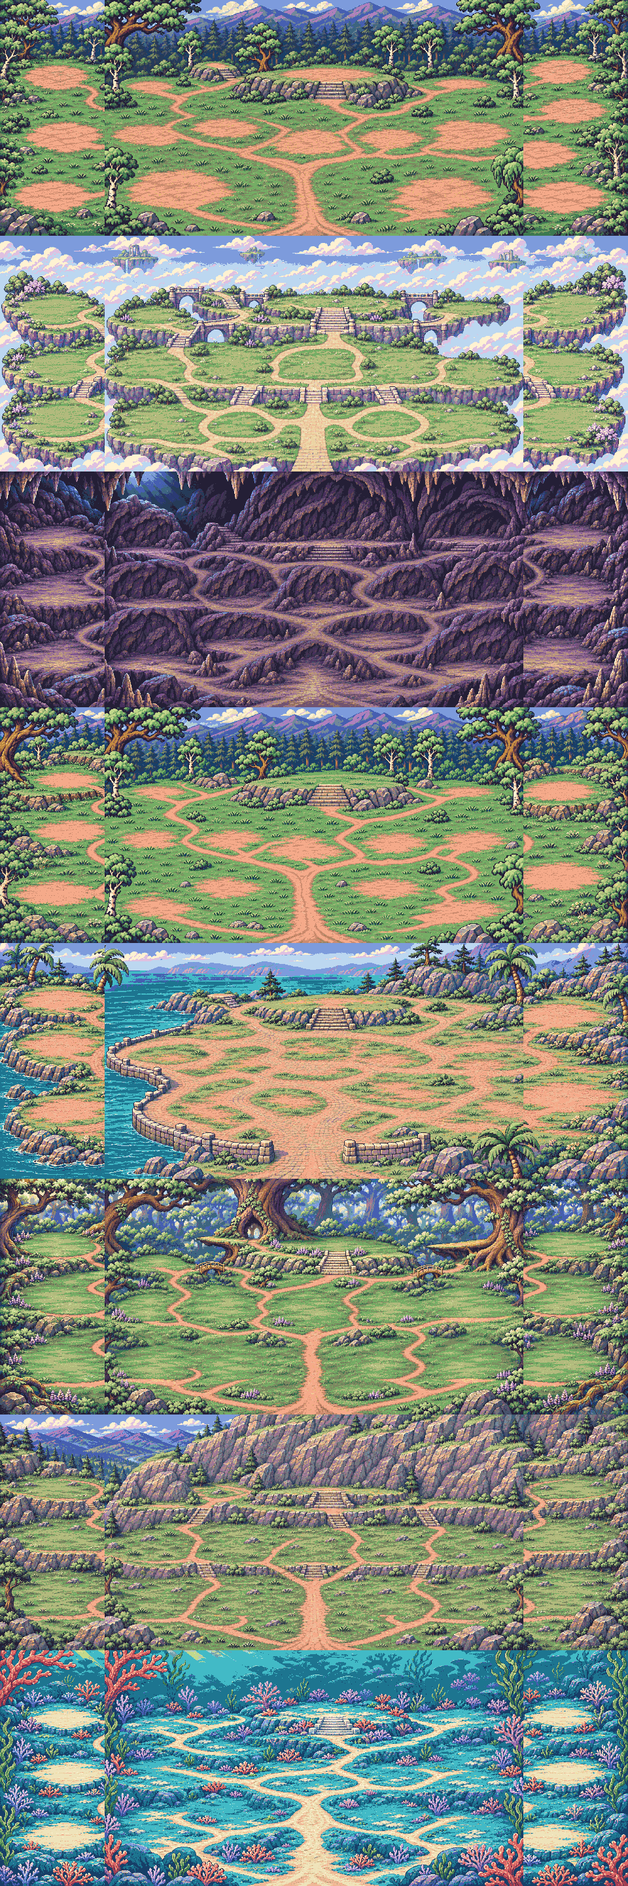
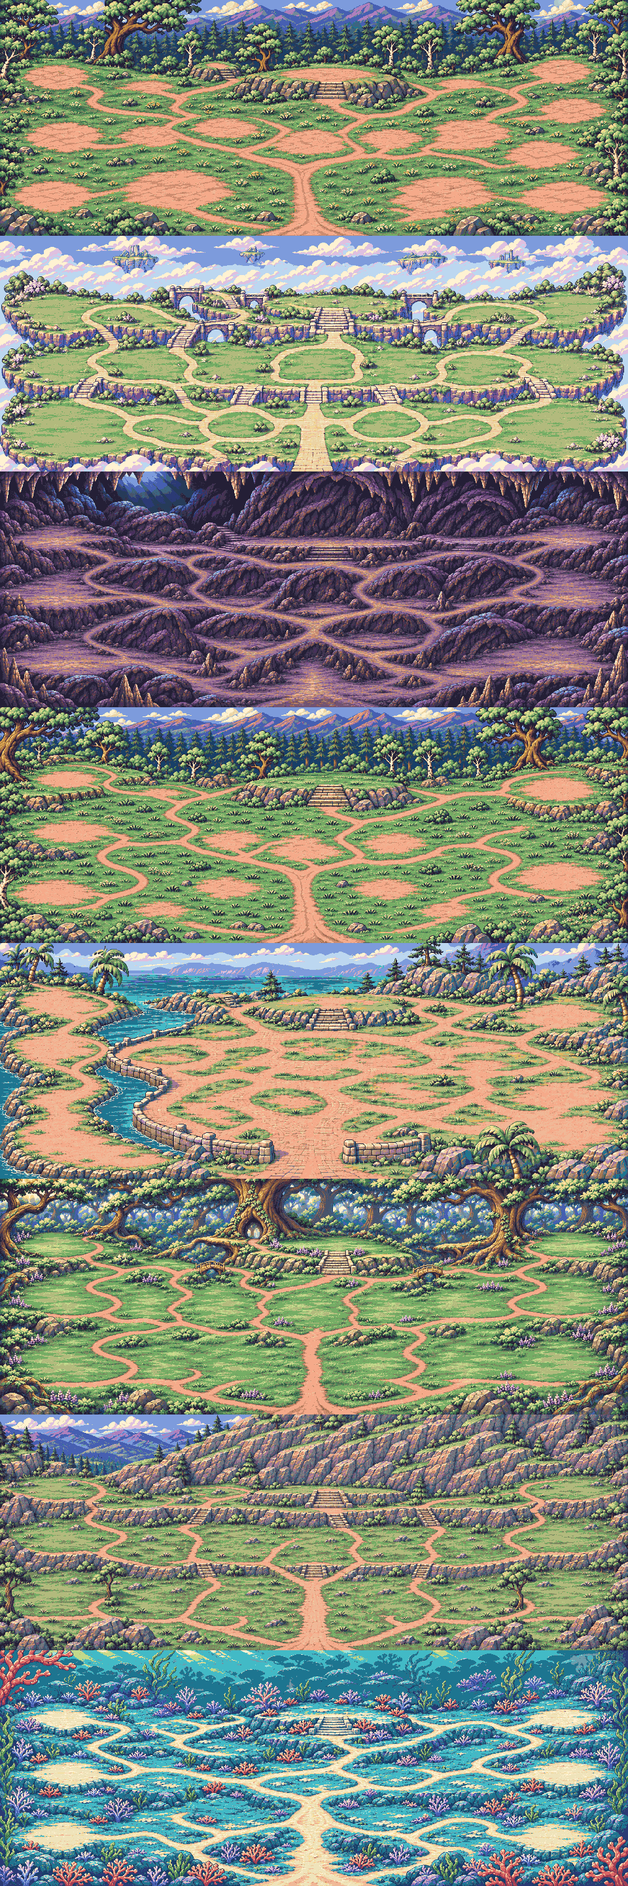
v41: redrawn city scenes, balance pass (starting artifacts for every hero, weak abilities raised, copies made distinct, daily gold trimmed, Battaglia Might)
Claude-Session: https://claude.ai/code/session_019G5bQC3KGAYpQSZdre1Ejx

diff --git a/js/01-data.js b/js/01-data.js
@@ -144,42 +144,42 @@ const HEROES=[
   {id:'bear',name:'Bear',fac:'centaurs',type:'Might',st:[2,2,1,1],ab:'Great Bear',ad:'Lions +2 attack and +2 defense.',sk:['shieldcraft'],sp:[],fx:{unitAtk:{lion:2},unitDef:{lion:2}}},
   {id:'perry',name:'Perry',fac:'rangers',type:'Might',st:[2,2,1,1],ab:'Rootkeeper',ad:'Oak Wardens +1 growth per week. Rootbound gives +3 defense instead of +2.',sk:['shieldcraft'],sp:[],fx:{growth:{oak:1},rootbound:3}},
   {id:'dorothy',name:'Dorothy',fac:'rangers',type:'Magic',st:[0,1,2,2],ab:'Green Mender',ad:'Mend heals 50% more.',sk:[],sp:['mend'],fx:{mendPct:1.5}},
-  {id:'oliver',name:'Oliver',fac:'rangers',type:'Might',st:[2,1,1,1],ab:'Trailblazer',ad:'Heath and bog cost 20% less movement.',sk:['forcedmarch'],sp:[],fx:{terrainCut:0.8}},
+  {id:'oliver',name:'Oliver',fac:'rangers',type:'Might',st:[2,1,1,1],ab:'Trailblazer',ad:'Heath and bog cost 30% less movement, and +5% movement.',sk:['forcedmarch'],sp:[],fx:{terrainCut:0.7,mpPct:5}},
   {id:'engelman',name:'Engelman',fac:'wizards',type:'Magic',st:[0,1,3,2],ab:'Arcanist',ad:'Spell Echo also works on the second spell each battle.',sk:['arcane'],sp:['ember'],fx:{echo:2}},
   {id:'tempest',name:'Tempest',fac:'wizards',type:'Magic',st:[0,1,2,3],ab:'Stormborn',ad:'Chain Spark jumps to one extra enemy.',sk:['deepres'],sp:['chain'],fx:{chainExtra:1}},
   {id:'parker',name:'Parker',fac:'necro',type:'Might',st:[2,2,1,1],ab:'Restless Dead',ad:'Zombies and Werewolves +2 speed.',sk:['battleplan'],sp:[],fx:{unitSpd:{zombie:2,werewolf:2}}},
-  {id:'shadow',name:'Shadow',fac:'necro',type:'Magic',st:[0,1,2,2],ab:'Gravecaller',ad:'Grave Harvest raises 15% instead of 10%.',sk:[],sp:['raise'],fx:{harvest:0.15}},
-  {id:'grimes',name:'Grimes',fac:'dwarves',type:'Might',st:[2,2,1,1],ab:'Stone Warden',ad:'Gem Golems +3 defense.',sk:['shieldcraft'],sp:[],fx:{unitDef:{golem:3}}},
+  {id:'shadow',name:'Shadow',fac:'necro',type:'Magic',st:[0,1,2,2],ab:'Gravecaller',ad:'Grave Harvest raises 20% instead of 10%.',sk:[],sp:['raise'],fx:{harvest:0.20}},
+  {id:'grimes',name:'Grimes',fac:'dwarves',type:'Might',st:[2,2,1,1],ab:'Stone Warden',ad:'Gem Golems +3 defense and +1 speed.',sk:['shieldcraft'],sp:[],fx:{unitDef:{golem:3},unitSpd:{golem:1}}},
   {id:'boopis',name:'Boopis',fac:'centaurs',type:'Magic',st:[1,1,2,1],ab:'Pounce',ad:'War Rabbits +4 growth per week and +1 speed.',sk:['fortune'],sp:['ember'],fx:{growth:{rabbit:4},unitSpd:{rabbit:1}}},
   {id:'rocky',name:'Rocky',fac:'merfolk',type:'Might',st:[3,1,1,1],ab:'Wave Rider',ad:'Turtle Knights +2 attack and +2 speed.',sk:['forcedmarch'],sp:[],fx:{unitAtk:{turtle:2},unitSpd:{turtle:2}}},
   {id:'monkey',name:'Monkey',fac:'centaurs',type:'Might',st:[2,2,1,1],ab:'Troublemaker',ad:'Your first stack to act each battle gets an extra turn.',sk:['bladework'],sp:[],fx:{extraFirst:true}},
   {id:'binx',name:'Binx',fac:'centaurs',type:'Magic',st:[1,1,2,2],ab:'Night Prowler',ad:'+2 vision, and you see exact enemy army sizes.',sk:['farsight'],sp:['ember'],fx:{vision:2,exact:true}},
   {id:'omalley',name:"O'Malley",fac:'pirates',type:'Might',st:[2,2,1,1],ab:'Scourge of the Coast',ad:'Plunder pays 50% more.',sk:['seamanship'],sp:[],fx:{plunder:1.5}},
   {id:'vargas',name:'Vargas',fac:'pirates',type:'Might',st:[3,1,1,1],ab:'Powder Master',ad:'Cannon Crews and Gunners +25% damage and +2 shots.',sk:['steadyaim'],sp:[],fx:{unitDmgPct:{cannon:1.25,gunner:1.25},unitShots:{cannon:2,gunner:2}}},
-  {id:'sheila',name:'Sheila',fac:'pirates',type:'Magic',st:[0,1,2,2],ab:'Weatherwise',ad:'Squall costs half.',sk:[],sp:['squall'],fx:{squallHalf:true}},
+  {id:'sheila',name:'Sheila',fac:'pirates',type:'Magic',st:[0,1,2,2],ab:'Weatherwise',ad:'Squall costs half and hits 30% harder.',sk:[],sp:['squall'],fx:{squallHalf:true,squallPct:1.3}},
   {id:'davis',name:'Davis',retired:true,fac:'elves',type:'Might',st:[2,1,1,1],ab:'Master Archer',ad:'Longbow Rangers +1 damage and +4 shots.',sk:['steadyaim'],sp:[],fx:{unitDmgFlat:{longbow:1},unitShots:{longbow:4}}},
   {id:'love',name:'Love',fac:'elves',type:'Magic',st:[0,1,2,2],ab:'Heartbloom',ad:'Healing spells also give the target +1 morale for the battle.',sk:[],sp:['mend'],fx:{healMorale:1}},
-  {id:'ivan',name:'Ivan',fac:'dwarves',type:'Might',st:[2,2,1,1],ab:'Master Smith',ad:'The Great Forge costs 25% less ore.',sk:['shieldcraft'],sp:[],fx:{forgeCut:0.75}},
+  {id:'ivan',name:'Ivan',fac:'dwarves',type:'Might',st:[2,2,1,1],ab:'Master Smith',ad:'The Great Forge costs half the ore, and forged troops get +1 more attack.',sk:['shieldcraft'],sp:[],fx:{forgeCut:0.5,forgePlus:1}},
   {id:'rago',name:'Rago',fac:'necro',type:'Magic',st:[1,1,2,2],ab:'Hex Mistress',ad:'Vampires +2 attack and +2 speed.',sk:['battleplan'],sp:['ember'],fx:{unitAtk:{vampire:2},unitSpd:{vampire:2}}},
   {id:'dupengeiser',name:'Dupengeiser',fac:'dwarves',type:'Magic',st:[1,1,2,2],ab:'Steamcaller',ad:'Once per battle, raise a scalding geyser beside an enemy.',sk:['warding'],sp:['geyser'],fx:{}},
   {id:'rimmer',name:'Rimmer',fac:'wizards',type:'Magic',st:[1,1,2,2],ab:'Storm Keeper',ad:'Storm Elementals +2 attack and +1 speed.',sk:['meditation'],sp:['ember'],fx:{unitAtk:{stormel:2},unitSpd:{stormel:1}}},
   {id:'sookie',name:'Sookie',fac:'wizards',type:'Magic',st:[0,1,2,3],ab:'Owl Mother',ad:'Owl Familiars +4 growth per week and +1 speed.',sk:['meditation'],sp:['ember'],fx:{growth:{owl:4},unitSpd:{owl:1}}},
-  {id:'schmickle',name:'Schmickle',tav:true,fac:'centaurs',type:'Might',st:[2,2,1,1],ab:'Light Fingers',ad:'Brings in +250 gold every day.',sk:['shieldcraft'],sp:[],fx:{goldDay:250}},
+  {id:'schmickle',name:'Schmickle',tav:true,fac:'centaurs',type:'Might',st:[2,2,1,1],ab:'Light Fingers',ad:'Brings in +200 gold every day.',sk:['shieldcraft'],sp:[],fx:{goldDay:200}},
   {id:'elvis',name:'Eelvis',fac:'merfolk',type:'Magic',st:[1,1,2,2],ab:'Siren Voice',ad:'Siren charms last 1 turn longer, and your whole army has +1 morale.',sk:['command'],sp:['ember'],fx:{charmExtra:1,morale:1}},
 ];
 /* rogues: wanderers of no banner, found only in taverns and freed from prisons on the map */
 HEROES.push(
-  {id:'boone',name:'Boone',rogue:true,fac:'elves',type:'Might',st:[2,1,1,1],ab:'Quickdraw',ad:'Your first stack to act each battle gets an extra turn.',sk:['steadyaim'],sp:[],fx:{extraFirst:true}},
+  {id:'boone',name:'Boone',rogue:true,fac:'elves',type:'Might',st:[2,1,1,1],ab:'Quickdraw',ad:'Your shooters deal 15% more damage.',sk:['steadyaim'],sp:[],fx:{rangedPct:0.15}},
   {id:'holmes',name:'Holmes',rogue:true,fac:'necro',type:'Magic',st:[0,1,2,2],ab:'Sharp Eyes',ad:'+2 vision, and you see exact enemy army sizes.',sk:['farsight'],sp:['ember'],fx:{vision:2,exact:true}},
   {id:'tinker',name:'Tinker',rogue:true,fac:'dwarves',type:'Might',st:[2,1,1,2],ab:'Wayfinder',ad:'+15% movement every day.',sk:['forcedmarch'],sp:[],fx:{mpPct:15}},
 );
 /* placeholder heroes fill every faction to four; rename them and give them art later */
 HEROES.push(
   {id:'necro4',name:'William IV',fac:'necro',type:'Might',st:[2,2,1,1],ab:'Bone Collector',ad:'Skeletons +3 growth per week.',sk:[],sp:[],fx:{growth:{skeleton:3}}},
-  {id:'mer2',name:'Griffiths',fac:'merfolk',type:'Might',st:[2,2,1,1],ab:'Crab Warden',ad:'Giant Crabs +3 defense.',sk:[],sp:[],fx:{unitDef:{crab:3}}},
+  {id:'mer2',name:'Griffiths',fac:'merfolk',type:'Might',st:[2,2,1,1],ab:'Crab Warden',ad:'Giant Crabs +3 defense and +1 speed.',sk:[],sp:[],fx:{unitDef:{crab:3},unitSpd:{crab:1}}},
 );
 HEROES.push(
-  {id:'battaglia',name:'Battaglia',fac:'rangers',type:'Magic',st:[0,1,3,2],ab:'Champion of the Vale',ad:'Antler Knights +2 attack and +2 defense.',sk:[],sp:[],fx:{unitAtk:{antler:2},unitDef:{antler:2}}},
+  {id:'battaglia',name:'Battaglia',fac:'rangers',type:'Might',st:[2,2,1,1],ab:'Champion of the Vale',ad:'Antler Knights +2 attack and +2 defense.',sk:[],sp:[],fx:{unitAtk:{antler:2},unitDef:{antler:2}}},
   {id:'lawrence',name:'Lawrence',fac:'pirates',type:'Magic',st:[0,1,2,2],ab:"Ship's Surgeon",ad:'Mend heals 40% more, and Deckhands +2 growth per week.',sk:[],sp:['mend'],fx:{mendPct:1.4,growth:{deckhand:2}}},
   {id:'michael',name:'Michael',fac:'elves',type:'Might',st:[2,2,1,1],ab:'Glade Guard',ad:'Grove Wardens +2 attack and +2 defense.',sk:[],sp:[],fx:{unitAtk:{dryad:2},unitDef:{dryad:2}}},
   {id:'livingston',name:'Livingston',fac:'elves',type:'Magic',st:[0,1,2,2],ab:'Rootweaver',ad:'Entangle lasts 1 round longer.',sk:[],sp:['entangle'],fx:{entangleExtra:1}},
@@ -187,11 +187,11 @@ HEROES.push(
   /* v39: each banner shows six heroes (pickers, rivals' first heroes); one more per banner has tav:true and is only met in the tavern ("on the road"). Rogues have no banner. */
   {id:'alderhide',rogue:true,name:'Alderhide',fac:'centaurs',type:'Might',st:[2,2,1,1],ab:'Moose Guardian',ad:'Boars +1 attack and +2 defense.',sk:['shieldcraft'],sp:[],fx:{unitAtk:{boar:1},unitDef:{boar:2}}},
   {id:'briar',rogue:true,name:'Briar',fac:'centaurs',type:'Might',st:[2,1,1,1],ab:'Fox Scout',ad:'+2 vision and +10% movement.',sk:['farsight'],sp:[],fx:{vision:2,mpPct:10}},
-  {id:'mossback',rogue:true,name:'Mossback',fac:'centaurs',type:'Magic',st:[0,2,2,2],ab:'Tortoise Herbalist',ad:'Mend heals 50% more.',sk:['meditation'],sp:['mend'],fx:{mendPct:1.5}},
+  {id:'mossback',rogue:true,name:'Mossback',fac:'centaurs',type:'Magic',st:[0,2,2,2],ab:'Tortoise Herbalist',ad:'Your whole army +1 defense.',sk:['meditation'],sp:['mend'],fx:{armyDef:1}},
   {id:'ilyra',name:'Ilyra',fac:'elves',type:'Magic',st:[0,1,2,2],ab:'Moon Sentinel',ad:'Sprites +3 growth per week and +1 speed.',sk:['arcane'],sp:['entangle'],fx:{growth:{sprite:3},unitSpd:{sprite:1}}},
   {id:'tavian',tav:true,name:'Tavian',fac:'elves',type:'Might',st:[2,1,1,1],ab:'Veteran Duelist',ad:'Elven Riders +2 attack and +1 speed.',sk:['bladework'],sp:[],fx:{unitAtk:{rider:2},unitSpd:{rider:1}}},
   {id:'yselle',name:'Yselle',fac:'elves',type:'Magic',st:[0,1,2,2],ab:'Grove Elder',ad:'Grove Wardens +2 growth per week and +2 defense.',sk:['meditation'],sp:['mend'],fx:{growth:{dryad:2},unitDef:{dryad:2}}},
-  {id:'veyra',name:'Veyra',fac:'necro',type:'Magic',st:[0,1,2,2],ab:'Spirit Medium',ad:'Grave Harvest raises 15% instead of 10%.',sk:['sorcery'],sp:['raise'],fx:{harvest:0.15}},
+  {id:'veyra',name:'Veyra',fac:'necro',type:'Magic',st:[0,1,2,2],ab:'Spirit Medium',ad:'Grave Harvest raises 15%, and Skeletons +1 defense.',sk:['sorcery'],sp:['raise'],fx:{harvest:0.15,unitDef:{skeleton:1}}},
   {id:'graven',tav:true,name:'Graven',fac:'necro',type:'Might',st:[2,2,1,1],ab:'Haunted Knight',ad:'Werewolves +2 attack and +2 defense.',sk:['shieldcraft'],sp:[],fx:{unitAtk:{werewolf:2},unitDef:{werewolf:2}}},
   {id:'ossin',name:'Ossin',fac:'necro',type:'Magic',st:[0,1,2,2],ab:'Tomb Vizier',ad:'Zombies +3 growth per week and +2 defense.',sk:['deepres'],sp:['weaken'],fx:{growth:{zombie:3},unitDef:{zombie:2}}},
   {id:'spindle',tav:true,name:'Spindle',fac:'merfolk',type:'Might',st:[2,1,1,1],ab:'Seahorse Courier',ad:'+15% movement, and Spearfolk +1 speed.',sk:['forcedmarch'],sp:[],fx:{mpPct:15,unitSpd:{spear:1}}},
@@ -201,7 +201,7 @@ HEROES.push(
   {id:'tansy',tav:true,name:'Tansy',fac:'dwarves',type:'Magic',st:[1,1,2,1],ab:'Clockmaker',ad:'Dwarf Crossbowmen +3 shots and +1 damage.',sk:['steadyaim'],sp:['ember'],fx:{unitShots:{bolt:3},unitDmgFlat:{bolt:1}}},
   {id:'kiln',name:'Kiln',fac:'dwarves',type:'Might',st:[2,2,1,1],ab:'Forge Golem',ad:'Gem Golems +2 attack and +1 speed.',sk:['shieldcraft'],sp:[],fx:{unitAtk:{golem:2},unitSpd:{golem:1}}},
   {id:'purl',name:'Purl',fac:'wizards',type:'Magic',st:[0,1,2,2],ab:'Yarn Mage',ad:'Apprentice Mages +3 growth per week and +1 damage.',sk:['arcane'],sp:['ember'],fx:{growth:{apprentice:3},unitDmgFlat:{apprentice:1}}},
-  {id:'quillby',name:'Quillby',fac:'wizards',type:'Magic',st:[1,1,2,1],ab:'Magpie Collector',ad:'Collects shiny things: +250 gold every day.',sk:['learning'],sp:['ember'],fx:{goldDay:250}},
+  {id:'quillby',name:'Quillby',fac:'wizards',type:'Magic',st:[1,1,2,1],ab:'Magpie Collector',ad:'Collects shiny things: +200 gold every day.',sk:['learning'],sp:['ember'],fx:{goldDay:200}},
   {id:'folio',retired:true,name:'Folio',fac:'wizards',type:'Magic',st:[0,1,3,2],ab:'Living Spellbook',ad:'Ember Dart deals 50% more.',sk:['sorcery'],sp:['ember','swift'],fx:{emberPct:1.5}},
   {id:'cresset',name:'Cresset',tav:true,fac:'rangers',type:'Might',st:[2,1,1,2],ab:'Lantern Wayfinder',ad:'Heath and bog cost 20% less movement, and +1 vision.',sk:['farsight'],sp:[],fx:{terrainCut:0.8,vision:1}},
   {id:'inkwake',name:'Inkwake',fac:'pirates',type:'Might',st:[2,2,1,1],ab:'Octopus Captain',ad:'Deckhands +2 attack and +2 defense.',sk:['command'],sp:[],fx:{unitAtk:{deckhand:2},unitDef:{deckhand:2}}},
@@ -211,17 +211,17 @@ HEROES.push(
   {id:'tembor',name:'Tembor',fac:'centaurs',type:'Might',st:[2,2,1,1],ab:'Elephant Marshal',ad:'Your whole army +1 morale, and Boars +2 defense.',sk:['command'],sp:[],fx:{morale:1,unitDef:{boar:2}}},
   {id:'virel',rogue:true,name:'Virel',fac:'centaurs',type:'Magic',st:[0,1,2,2],ab:'Peacock Herald',ad:'Your whole army +1 luck and +1 morale.',sk:['fortune'],sp:['rally'],fx:{luck:1,morale:1}},
   /* v40: 16 more heroes: Rangers Nessa Holt and Reedcall join the Rangers' six; the rest are extra tavern heroes for their banners */
-  {id:'nessa_holt',name:'Nessa Holt',fac:'rangers',type:'Might',st:[2,1,1,2],ab:'Trail Surveyor',ad:'Heath and bog cost 20% less movement, and +10% movement.',sk:['forcedmarch'],sp:[],fx:{terrainCut:0.8,mpPct:10}},
+  {id:'nessa_holt',name:'Nessa Holt',fac:'rangers',type:'Might',st:[2,1,1,2],ab:'Trail Surveyor',ad:'+10% movement, and Thornguard +2 defense.',sk:['forcedmarch'],sp:[],fx:{mpPct:10,unitDef:{thorn:2}}},
   {id:'reedcall',name:'Reedcall',fac:'rangers',type:'Might',st:[2,1,1,1],ab:'Resonant Call',ad:'Reedbows +2 shots and +1 damage.',sk:['steadyaim'],sp:[],fx:{unitShots:{reed:2},unitDmgFlat:{reed:1}}},
   {id:'sera_venn',tav:true,name:'Sera Venn',fac:'wizards',type:'Magic',st:[0,1,2,2],ab:'Bell Mage',ad:'Your whole army +1 morale.',sk:['sorcery'],sp:['rally'],fx:{morale:1}},
-  {id:'gliss',tav:true,extra:true,name:'Gliss',fac:'wizards',type:'Magic',st:[0,1,3,2],ab:'Stained-Glass Caster',ad:'Chain Spark jumps to one extra enemy.',sk:['arcane'],sp:['chain'],fx:{chainExtra:1}},
-  {id:'murmur',tav:true,extra:true,name:'Murmur',fac:'necro',type:'Magic',st:[0,1,2,2],ab:'Veiled Shadow',ad:'+2 vision, and you see exact enemy army sizes.',sk:['farsight'],sp:['weaken'],fx:{vision:2,exact:true}},
+  {id:'gliss',tav:true,extra:true,name:'Gliss',fac:'wizards',type:'Magic',st:[0,1,3,2],ab:'Stained-Glass Caster',ad:'Every spell costs 1 less mana.',sk:['arcane'],sp:['chain'],fx:{manaCut:1}},
+  {id:'murmur',tav:true,extra:true,name:'Murmur',fac:'necro',type:'Magic',st:[0,1,2,2],ab:'Veiled Shadow',ad:'Weaken drains 50% more attack, and +1 vision.',sk:['farsight'],sp:['weaken'],fx:{weakenPct:1.5,vision:1}},
   {id:'rattleclaw',tav:true,extra:true,name:'Rattleclaw',fac:'necro',type:'Might',st:[2,1,1,1],ab:'Fossil Raptor',ad:'Skeletons +2 attack and +1 speed.',sk:['bladework'],sp:[],fx:{unitAtk:{skeleton:2},unitSpd:{skeleton:1}}},
-  {id:'silka',tav:true,extra:true,name:'Silka',fac:'centaurs',type:'Magic',st:[0,1,2,2],ab:'Silk Keeper',ad:'Entangle lasts 1 round longer.',sk:['meditation'],sp:['entangle'],fx:{entangleExtra:1}},
+  {id:'silka',tav:true,extra:true,name:'Silka',fac:'centaurs',type:'Magic',st:[0,1,2,2],ab:'Silk Keeper',ad:'Entangle costs half and lasts 1 round longer.',sk:['meditation'],sp:['entangle'],fx:{halfCost:'entangle',entangleExtra:1}},
   {id:'flintback',tav:true,extra:true,name:'Flintback',fac:'centaurs',type:'Might',st:[1,3,1,1],ab:'Ankylosaur Shieldbearer',ad:'Hounds +1 attack and +3 defense.',sk:['shieldcraft'],sp:[],fx:{unitAtk:{hounds:1},unitDef:{hounds:3}}},
   {id:'bess_bell',tav:true,extra:true,name:'Bess Bell',fac:'pirates',type:'Might',st:[1,2,1,2],ab:'Salvage Diver',ad:'+150 gold every day, and +10% movement.',sk:['seamanship'],sp:[],fx:{goldDay:150,mpPct:10}},
   {id:'rusk_hookhorn',tav:true,extra:true,name:'Rusk Hookhorn',fac:'pirates',type:'Might',st:[2,1,1,1],ab:'Carnotaur First Mate',ad:'Gunners +2 attack and +1 speed.',sk:['command'],sp:[],fx:{unitAtk:{gunner:2},unitSpd:{gunner:1}}},
-  {id:'aster',tav:true,extra:true,name:'Aster',fac:'elves',type:'Magic',st:[0,1,2,2],ab:'Dryad Envoy',ad:'Mend heals 50% more.',sk:['meditation'],sp:['mend'],fx:{mendPct:1.5}},
+  {id:'aster',tav:true,extra:true,name:'Aster',fac:'elves',type:'Magic',st:[0,1,2,2],ab:'Dryad Envoy',ad:'Grove Wardens +1 growth per week, and Mend heals 25% more.',sk:['meditation'],sp:['mend'],fx:{growth:{dryad:1},mendPct:1.25}},
   {id:'thornfrill',tav:true,extra:true,name:'Thornfrill',fac:'elves',type:'Might',st:[1,3,1,1],ab:'Glade Knight',ad:'Elven Riders +1 attack and +2 defense.',sk:['shieldcraft'],sp:[],fx:{unitAtk:{rider:1},unitDef:{rider:2}}},
   {id:'harlan_chalk',tav:true,extra:true,name:'Harlan Chalk',fac:'dwarves',type:'Might',st:[1,2,1,2],ab:'Mine Rescue Chief',ad:'Young Dwarves +3 growth per week and +2 defense.',sk:['command'],sp:[],fx:{growth:{delver:3},unitDef:{delver:2}}},
   {id:'morel',tav:true,extra:true,name:'Morel',fac:'dwarves',type:'Magic',st:[0,1,2,2],ab:'Spore Brewer',ad:'Your whole army +1 luck.',sk:['fortune'],sp:['mend'],fx:{luck:1}},
@@ -289,14 +289,17 @@ const START_KIT={bear:['command','sash'],perry:['shieldcraft','buckler'],boone:[
   ivan:['shieldcraft','buckler'],dupengeiser:['warding','spark'],slack:['bladework','whetstone'],eden:['steadyaim','bracer'],sookie:['meditation','candle'],
   elvis:['command','sash'],mer2:['shieldcraft','kettle'],rocky:['forcedmarch','sash'],letchworth:['meditation','breath']};
 HEROES.forEach(h=>{const k=START_KIT[h.id];if(k){h.sk=[k[0]];h.item=k[1];}});
+/* v41: every hero starts with an artifact (the newer heroes had none) */
+const START_ITEM={'zahara': 'errands', 'tembor': 'buckler', 'cresset': 'candle', 'nessa_holt': 'errands', 'reedcall': 'bracer', 'purl': 'inkwell', 'quillby': 'purse', 'sera_venn': 'breath', 'gliss': 'spark', 'veyra': 'spark', 'graven': 'buckler', 'ossin': 'inkwell', 'murmur': 'cloak', 'rattleclaw': 'whetstone', 'silka': 'candle', 'flintback': 'kettle', 'inkwake': 'cudgel', 'saltjaw': 'whetstone', 'pip_quickline': 'cloak', 'bess_bell': 'errands', 'rusk_hookhorn': 'cudgel', 'ilyra': 'breath', 'tavian': 'whetstone', 'yselle': 'inkwell', 'aster': 'candle', 'thornfrill': 'buckler', 'brynja': 'cudgel', 'tansy': 'bracer', 'kiln': 'kettle', 'harlan_chalk': 'buckler', 'morel': 'rabbit', 'spindle': 'errands', 'skimmer': 'whetstone', 'atoll': 'spark', 'iona_shoal': 'breath', 'nerka': 'cudgel', 'alderhide': 'buckler', 'briar': 'cloak', 'mossback': 'breath', 'virel': 'rabbit'};
+HEROES.forEach(h=>{if(!h.item&&START_ITEM[h.id])h.item=START_ITEM[h.id];});
 /* starting stats: one higher across the board, more on each hero's main stat, and a personal extra point */
 for(const h of HEROES){if(h._st)continue;h._st=1;const r=hash(h.id);h.st=h.st.map(v=>v+1);const main=h.type==='Might'?(h.st[0]>=h.st[1]?0:1):(h.st[2]>=h.st[3]?2:3);h.st[main]+=1+(r%2);h.st[(r>>>3)%4]+=1;}
 /* one-line versions of each ability for the hero cards; the full text is under Details */
-const AB_SHORT={bear:'Lions +2 attack and defense',perry:'Oak Wardens grow faster',boone:'First stack acts twice',holmes:'Sees farther and exactly',tinker:'+15% movement',dorothy:'Mend heals 50% more',oliver:'Heath and bog cost less',engelman:'Echoes a second spell',tempest:'Chain Spark hits one more',
-  parker:'Zombies, Werewolves +2 speed',shadow:'Raises 15% of the fallen',grimes:'Gem Golems +3 defense',boopis:'War Rabbits grow faster',rocky:'Turtles +2 attack, +2 speed',
-  monkey:'First stack acts twice',binx:'Sees farther and exactly',omalley:'Plunder pays 50% more',vargas:'Gunners hit harder, shoot more',sheila:'Squall costs half',
-  davis:'Longbows +1 damage, +4 shots',love:'Healing lifts morale',ivan:'Great Forge costs less',rago:'Vampires +2 attack and speed',dupengeiser:'Raises a scalding geyser',
-  rimmer:'Storm Elementals +2 attack',schmickle:'+250 gold a day',elvis:'Longer charms, +1 morale',necro4:'Skeletons grow faster',mer2:'Giant Crabs +3 defense',
+const AB_SHORT={bear:'Lions +2 attack and defense',perry:'Oak Wardens grow faster',boone:'First stack acts twice',holmes:'Sees farther and exactly',tinker:'+15% movement',dorothy:'Mend heals 50% more',oliver:'Rough ground costs less',engelman:'Echoes a second spell',tempest:'Chain Spark hits one more',
+  parker:'Zombies, Werewolves +2 speed',shadow:'Raises 20% of the fallen',grimes:'Gem Golems +3 defense, faster',boopis:'War Rabbits grow faster',rocky:'Turtles +2 attack, +2 speed',
+  monkey:'First stack acts twice',binx:'Sees farther and exactly',omalley:'Plunder pays 50% more',vargas:'Gunners hit harder, shoot more',sheila:'Squall cheaper and stronger',
+  davis:'Longbows +1 damage, +4 shots',love:'Healing lifts morale',ivan:'Better, cheaper Great Forge',rago:'Vampires +2 attack and speed',dupengeiser:'Raises a scalding geyser',
+  rimmer:'Storm Elementals +2 attack',schmickle:'+200 gold a day',elvis:'Longer charms, +1 morale',necro4:'Skeletons grow faster',mer2:'Giant Crabs +3 defense, faster',
   battaglia:'Antler Knights +2 / +2',lawrence:'Better Mend, more Deckhands',michael:'Grove Wardens +2 / +2',livingston:'Entangle lasts longer',slack:'Young Dwarves +2 attack',
   eden:'Longbows +1 damage, +4 shots',sookie:'Owl Familiars grow faster',letchworth:'Sirens +2 shots, +1 damage'};
 const HBY=Object.fromEntries(HEROES.map(h=>[h.id,h]));

diff --git a/js/08-battle.js b/js/08-battle.js
@@ -28,8 +28,8 @@ const mine0=s=>s.side===0&&facOfUnit(s.k)===S.fac;
 const hasFriendNear=s=>hnb(s.c,s.r).some(([c,r])=>{const o=stackAt(c,r);return o&&o.side===s.side;});
 const tide=s=>S.fac==='merfolk'&&mine0(s)&&bt.round%3===0;
 const pack=s=>S.fac==='centaurs'&&mine0(s)&&hasFriendNear(s);
-function sAtk(s){let a=s.u.atk+s.buff.atk;if(s.side===0){const f=fx();a+=hst(HERO(),'atk')+((f.unitAtk||{})[s.k]||0);if(S.fac==='dwarves'&&S.town.built.forge&&mine0(s))a++;}else if(bt&&bt.enemyHero)a+=hst(bt.enemyHero,'atk');if(tide(s))a+=2;if(pack(s))a+=2;return a;}
-function sDef(s){let d=s.u.def+s.buff.def+(s.side===1&&bt&&bt.obj&&bt.obj.type==='spire'?3:0)+(s.side===1&&bt&&bt.siege?bt.siege:0);if(s.side===0){const f=fx();d+=hst(HERO(),'def')+((f.unitDef||{})[s.k]||0);if(S.fac==='dwarves'&&S.town.built.forge&&mine0(s))d++;if(S.fac==='rangers'&&mine0(s)&&s.stood)d+=f.rootbound||2;}else if(bt&&bt.enemyHero)d+=hst(bt.enemyHero,'def');if(s.defending)d=Math.ceil(d*1.3);return d;}
+function sAtk(s){let a=s.u.atk+s.buff.atk;if(s.side===0){const f=fx();a+=hst(HERO(),'atk')+((f.unitAtk||{})[s.k]||0);if(S.fac==='dwarves'&&S.town.built.forge&&mine0(s))a+=1+(f.forgePlus||0);}else if(bt&&bt.enemyHero)a+=hst(bt.enemyHero,'atk');if(tide(s))a+=2;if(pack(s))a+=2;return a;}
+function sDef(s){let d=s.u.def+s.buff.def+(s.side===1&&bt&&bt.obj&&bt.obj.type==='spire'?3:0)+(s.side===1&&bt&&bt.siege?bt.siege:0);if(s.side===0){const f=fx();d+=hst(HERO(),'def')+((f.unitDef||{})[s.k]||0)+(f.armyDef||0);if(S.fac==='dwarves'&&S.town.built.forge&&mine0(s))d++;if(S.fac==='rangers'&&mine0(s)&&s.stood)d+=f.rootbound||2;}else if(bt&&bt.enemyHero)d+=hst(bt.enemyHero,'def');if(s.defending)d=Math.ceil(d*1.3);return d;}
 function sSpd(s){let v=s.u.spd+s.buff.spd;if(s.side===0)v+=((fx().unitSpd||{})[s.k]||0);if(tide(s))v+=2;if(pack(s))v+=1;return Math.max(1,v);}
 function sMorale(s){if(s.side!==0)return 0;let m=(unpaid()?-2:0)+skL('command')+(fx().morale||0)+s.buff.morale+carry(HERO(),'morale')+gear(HERO(),'morale');if(pack(s))m+=fx().packMorale||0;return m;}
 const sLuck=s=>s.side===0?skL('fortune')+(fx().luck||0)+carry(HERO(),'luck')+gear(HERO(),'luck')+((HERO().luckUntil||0)>=S.day?1:0):0;
@@ -94,7 +94,7 @@ function canShoot(s){return s.u.shots&&s.shots>0&&!hnb(s.c,s.r).some(([c,r])=>{c
 function dmgRange(a,d,o={}){
   let m=sAtk(a)>=sDef(d)?Math.min(3,1+0.05*(sAtk(a)-sDef(d))):Math.max(0.3,1-0.025*(sDef(d)-sAtk(a)));
   if(o.half)m*=0.5;if(o.charge)m*=1+0.06*o.charge;
-  if(a.side===0){const f=fx();m*=((f.unitDmgPct||{})[a.k]||1);if(o.ranged)m*=1+0.1*skL('steadyaim');if(!o.ranged)m*=1+0.1*skL('bladework');}
+  if(a.side===0){const f=fx();m*=((f.unitDmgPct||{})[a.k]||1);if(o.ranged)m*=1+0.1*skL('steadyaim')+(f.rangedPct||0);if(!o.ranged)m*=1+0.1*skL('bladework');}
   if(d.side===0)m*=1-0.05*skL('shieldcraft');
   const flat=a.side===0?((fx().unitDmgFlat||{})[a.k]||0):0;
   return[Math.max(1,Math.round(a.n*(a.u.min+flat)*m)),Math.max(1,Math.round(a.n*(a.u.max+flat)*m))];
@@ -176,7 +176,7 @@ function updateBattleUI(){
   if(!bt.hover&&s)$('#btCard').innerHTML=stackCard(s);
 }
 function usableSpells(){return HERO().spells.filter(k=>spellCost(k)<=HERO().mana&&!(k==='geyser'&&bt.geyserUsed));}
-function spellCost(k){let c=SP[k].cost;if(k==='squall'&&fx().squallHalf)c=Math.ceil(c/2);if(skL('arcane')&&c>1)c=Math.max(1,c-(skL('arcane')>=3?2:1));if(S.delivered&&delivered(3)&&c>1)c-=1;return c;}
+function spellCost(k){let c=SP[k].cost;if(k==='squall'&&fx().squallHalf)c=Math.ceil(c/2);if(fx().halfCost===k)c=Math.ceil(c/2);if(fx().manaCut&&c>1)c=Math.max(1,c-fx().manaCut);if(skL('arcane')&&c>1)c=Math.max(1,c-(skL('arcane')>=3?2:1));if(S.delivered&&delivered(3)&&c>1)c-=1;return c;}
 function newRound(){bt.round++;for(const s of bt.stacks){s.acted=false;s.waited=false;s.retLeft=s.u.retal||1;if(s.rooted>0)s.rooted--;}bt.spellCast=false;bt.eCast=false;bt.towersDue=bt.siege>=3;
   logB(`Round ${bt.round}.${S.fac==='merfolk'&&bt.round%3===0?' The tide rises: Merfolk +2 speed and +2 attack this round.':''}`);}
 function checkEnd(){const a=bt.stacks.some(s=>s.alive&&s.side===0),b=bt.stacks.some(s=>s.alive&&s.side===1);if(!a||!b){bt.over=true;return true;}return false;}
@@ -274,7 +274,7 @@ async function spellEffect0(id,target,P){
   else if(id==='chain'){await burst(target,'#ffe066');const dm=12+8*P;applyDmg(target,dm);floatAt(target,`-${dm}`,'#ffe066');let from=target;const hit=new Set([target]);
     for(let j=0;j<1+(fx().chainExtra||0);j++){const nx=bt.stacks.filter(s=>s.alive&&s.side===1&&!hit.has(s)).sort((a,b)=>hdist(from.c,from.r,a.c,a.r)-hdist(from.c,from.r,b.c,b.r))[0];if(!nx)break;hit.add(nx);await burst(nx,'#ffe066');const d2=Math.round(dm/2);applyDmg(nx,d2);floatAt(nx,`-${d2}`,'#ffe066');from=nx;}
     logB(`Chain Spark arcs through ${hit.size} stacks.`);}
-  else if(id==='squall'){await burst(target,'#cfe8ff');const dm=8+6*P;applyDmg(target,dm);target.buff.spd-=3;floatAt(target,`-${dm}, -3 speed`,'#cfe8ff');logB(`A squall batters ${nm(target)}.`);}
+  else if(id==='squall'){await burst(target,'#cfe8ff');const dm=Math.round((8+6*P)*(bt.enemyCasting?1:(fx().squallPct||1)));applyDmg(target,dm);target.buff.spd-=3;floatAt(target,`-${dm}, -3 speed`,'#cfe8ff');logB(`A squall batters ${nm(target)}.`);}
   else if(id==='entangle'){await burst(target,'#8cbc70');target.rooted=1+(fx().entangleExtra||0);floatAt(target,'Entangled','#a6e08a');logB(`Roots seize ${nm(target)}. They cannot move.`);}
   else if(id==='geyser'){bt.geyserUsed=true;const spot=hnb(target.c,target.r).find(([c,r])=>!blocked(c,r));if(spot){bt.obst.add(hk(spot[0],spot[1]));}
     const dm=10+6*P;const hits=[target,...bt.stacks.filter(s=>s.alive&&s.side===1&&s!==target&&spot&&hdist(s.c,s.r,spot[0],spot[1])<=1)];
@@ -284,7 +284,7 @@ async function spellEffect0(id,target,P){
   else if(id==='starfall'){const foes=bt.stacks.filter(f=>f.alive&&f.side===1);const dm=10+6*P;await Promise.all(foes.map(f=>burst(f,'#cfe0ff')));for(const f of foes){applyDmg(f,dm);floatAt(f,`-${dm}`,'#cfe0ff');}logB(`Starfall strikes every enemy for ${dm}.`);}
   else if(id==='mend'){await burst(target,'#a6e08a');const amt=Math.round((20+15*P)*(fx().mendPct||1));const raised=heal(target,amt);floatAt(target,`+${amt}`,'#a6e08a');if(fx().healMorale){target.buff.morale+=fx().healMorale;}logB(`Mend restores ${nm(target)}.${raised>0?` ${raised} rise again.`:''}`);}
   else if(id==='swift'){await burst(target,'#cde6ff');target.buff.spd+=3;floatAt(target,'+3 speed','#cde6ff');logB(`Swift Wind hastens ${nm(target)}.`);}
-  else if(id==='weaken'){await burst(target,'#b07ad8');const a=3+Math.floor(P/3);target.buff.atk-=a;floatAt(target,`-${a} attack`,'#d0a6f0');logB(`${nm(target)} are weakened.`);}
+  else if(id==='weaken'){await burst(target,'#b07ad8');const a=Math.round((3+Math.floor(P/3))*(bt.enemyCasting?1:(fx().weakenPct||1)));target.buff.atk-=a;floatAt(target,`-${a} attack`,'#d0a6f0');logB(`${nm(target)} are weakened.`);}
   else if(id==='frost'){await burst(target,'#bfe8ff');const dm=14+9*P,k=applyDmg(target,dm);target.buff.spd-=2;floatAt(target,`-${dm}, -2 speed`,'#bfe8ff');logB(`A frost lance strikes ${nm(target)} for ${dm}.${k?` ${k} fall.`:''}`);}
   else if(id==='rally'){await burst(target,'#ffe08a');const amt=10+8*P;heal(target,amt);target.buff.morale+=2;floatAt(target,`+${amt}, +2 morale`,'#ffe08a');logB(`${nm(target)} rally.`);}
   else if(id==='meteor'){const dm=25+14*P;await burst(target,'#ff7a3c');applyDmg(target,dm);floatAt(target,`-${dm}`,'#ffb48a');const nb=bt.stacks.filter(s=>s.alive&&s.side===target.side&&s!==target&&hdist(s.c,s.r,target.c,target.r)<=1);

diff --git a/js/07-town.js b/js/07-town.js
@@ -57,7 +57,7 @@ function townBuildings(){
   f.units.forEach((k,i)=>L.push({id:'u'+(i+1),name:`${f.dw[i]}: upgrade`,cost:uc[i],req:['d'+(i+1)],desc:`Recruits ${U[k+'_u'].pl} instead, and lets heroes in town upgrade their ${U[k].pl}.`}));
   L.push({id:'muster',name:'Muster Field',cost:{gold:1500,ore:5},req:['d1'],desc:'Every dwelling grows 50% more recruits each week.'});
   if(f.travel!=='hooves')L.push({id:'stables',name:'Stables',cost:{gold:1500,timber:5},desc:'Your hero takes a horse here: +40% movement.'});
-  if(fk==='dwarves')L.push({id:'forge',name:'Great Forge',cost:{gold:2000,ore:Math.round(10*(fx().forgeCut||1))},req:['d1'],desc:'Forging: every Dwarven unit gets +1 attack and +1 defense.'});
+  if(fk==='dwarves')L.push({id:'forge',name:'Great Forge',cost:{gold:2000,ore:Math.round(10*(fx().forgeCut||1))},req:['d1'],desc:`Forging: every Dwarven unit gets +${1+(fx().forgePlus||0)} attack and +1 defense.`});
   L.push({id:'lib1',name:'Lantern Library',cost:{gold:2000,timber:5,ore:5},desc:`Sells spellbooks and teaches ${libSpells(1).map(x=>SP[x].name).join(' and ')}. Refills mana on each visit.`});
   L.push({id:'lib2',name:'Star Archive',cost:{gold:4000,ore:5,moonwater:4},req:['lib1'],desc:`Teaches ${libSpells(2).map(x=>SP[x].name).join(', ')}.`});
   L.push({id:'market',name:'Barter Yard',cost:{gold:500,timber:5},desc:'Trade goods for gold, or gold for goods.'});
@@ -272,7 +272,7 @@ function drawArtTown(cv,TSN){const a=artImg(TSN.atlas);if(!a.ok)return false;con
   return true;}
 /* a banner's home town with every building up (capital hall), for the banner Details page */
 function paintTownPrev(root,tries=0){for(const cv of root.querySelectorAll('canvas.tprev:not([data-done])')){const T=TOWN_SCREEN[cv.dataset.fac],a=T&&artImg(T.atlas);if(!a||!a.ok){if(tries<40)setTimeout(()=>paintTownPrev(root,tries+1),100);continue;}
-  const c=cv.getContext('2d');c.imageSmoothingEnabled=false;c.drawImage(a.img,0,0,640,360,0,0,640,360);for(const[id,q]of Object.entries(T.pieces)){if((/_hall_/.test(id)&&!/capital$/.test(id))||T.sites.some(z=>z[0]===id&&z[3]))continue;c.drawImage(a.img,q[0],q[1],q[2],q[3],q[4],q[5],q[2],q[3]);}cv.dataset.done=1;}}
+  const c=cv.getContext('2d');c.imageSmoothingEnabled=false;{const wa=artImg(WINGS_ATLAS),wr=XB_ROW.indexOf(cv.dataset.fac);if(wa.ok&&wr>=0)c.drawImage(wa.img,160,wr*360,640,360,0,0,640,360);else c.drawImage(a.img,0,0,640,360,0,0,640,360);}for(const[id,q]of Object.entries(T.pieces)){if((/_hall_/.test(id)&&!/capital$/.test(id))||T.sites.some(z=>z[0]===id&&z[3]))continue;c.drawImage(a.img,q[0],q[1],q[2],q[3],q[4],q[5],q[2],q[3]);}cv.dataset.done=1;}}
 /* a building's picture from its banner's town atlas, cropped into a square (Build tab); null if the banner has no town art yet */
 /* the six shared extra buildings (Missing Buildings packs A and B): one 128×128 cell per banner (row) and building (column) in towns/extra_buildings.png, foot at (64,120) */
 const XB_ATLAS='towns/extra_buildings.png',XB_ROW=['rangers','wizards','necro','centaurs','pirates','elves','dwarves','merfolk'],XB_COL={reliquary:0,lodge:1,lib2:2,still:3,fb1:4,fb3:5,d5:6},XB_ONLY={d5:['rangers']};

diff --git a/CLAUDE.md b/CLAUDE.md
@@ -216,6 +216,13 @@ Everything lives in one object, `S`, so it can be saved as JSON:
 - The tavern (`hireable`) always offers four: the banner's main tavern hero, one of its extras (rotates weekly), one of its regular six, and a free rogue (or a wanderer from another banner), padded with more of the banner's own heroes when short.
 - `RECRUIT_PORT` and `recruits.png` now hold 41 portraits (10 a row).
 
+### v41 balance pass and city scenes
+
+- City Scenes pack: `towns/wings.png` now holds redrawn 960×360 scenes for all eight banners (same lot coordinates and centre offset; the centre no longer matches `screen.png`'s background, which is only the fallback before the atlas loads). `paintTownPrev` (banner Details) uses the scene's centre too.
+- Every hero starts with an artifact: `START_ITEM` fills in the newer heroes that had none.
+- New ability hooks (player side only): `forgePlus` (extra Great Forge attack), `armyDef` (whole army defense), `rangedPct` (shooter damage), `halfCost` (one spell at half mana), `manaCut` (all spells cheaper), `squallPct`, `weakenPct`.
+- Raised: Ivan (Forge half ore, +1 more attack), Oliver (30% cheaper rough ground, +5% movement), Shadow (harvest 20%), Sheila (Squall +30%), Grimes and Griffiths (+1 speed to their troop). Made distinct: Veyra, Gliss, Silka, Murmur, Boone, Mossback, Aster, Nessa Holt. Trimmed: Schmickle and Quillby to +200 gold a day. Battaglia is a Might hero.
+
 ### Map furniture
 
 - `furnishMap(bases)` runs after generation: every base (your town, rival camps, other players' towns) gets a sawmill, ore pit, amber spring and gold seam within a short walk (`reachFrom`, `freeTile`). Mines start at level 1-3, and the owner can pay at the mine to raise it (the prompt shows only when the mine is your destination).

diff --git a/LEGAL.md b/LEGAL.md
@@ -56,6 +56,7 @@ No other libraries, images or audio are included. Art made later with ChatGPT or
 | Tavern Recruits: 19 hero portraits (`assets/portraits/heroes/*_128.png`, `recruits.png`), cut from the supplied preview sheet with the backdrop removed | Supplied by the author (generated pixel art, ChatGPT) | 2026-11-12 | Original invented characters, not real people |
 | Pirates and Beasts recruits: 6 hero portraits (Inkwake, Saltjaw, Pip Quickline, Zahara, Tembor, Virel) | Supplied by the author (generated pixel art, ChatGPT) | 2026-11-12 | Original invented characters |
 | 16 Faction Recruits: portraits of Nessa Holt, Reedcall, Sera Venn, Gliss, Murmur, Rattleclaw, Silka, Flintback, Bess Bell, Rusk Hookhorn, Aster, Thornfrill, Harlan Chalk, Morel, Iona Shoal, Nerka | Supplied by the author (generated pixel art, ChatGPT) | 2026-11-12 | Original invented characters |
+| City Scenes: redrawn 960×360 town scenery for all eight banners (`assets/towns/wings.png`) | Supplied by the author (generated pixel art, ChatGPT), packed locally | 2026-11-12 | Original scenes |
 | Half-size move cursor (`assets/ui/cursors/move_small.png`) | Downscaled locally from Pack 09's move cursor | 2026-11-08 | Same as above |
 
 The generated source images (high-res magenta PNGs) are kept outside this repo.
